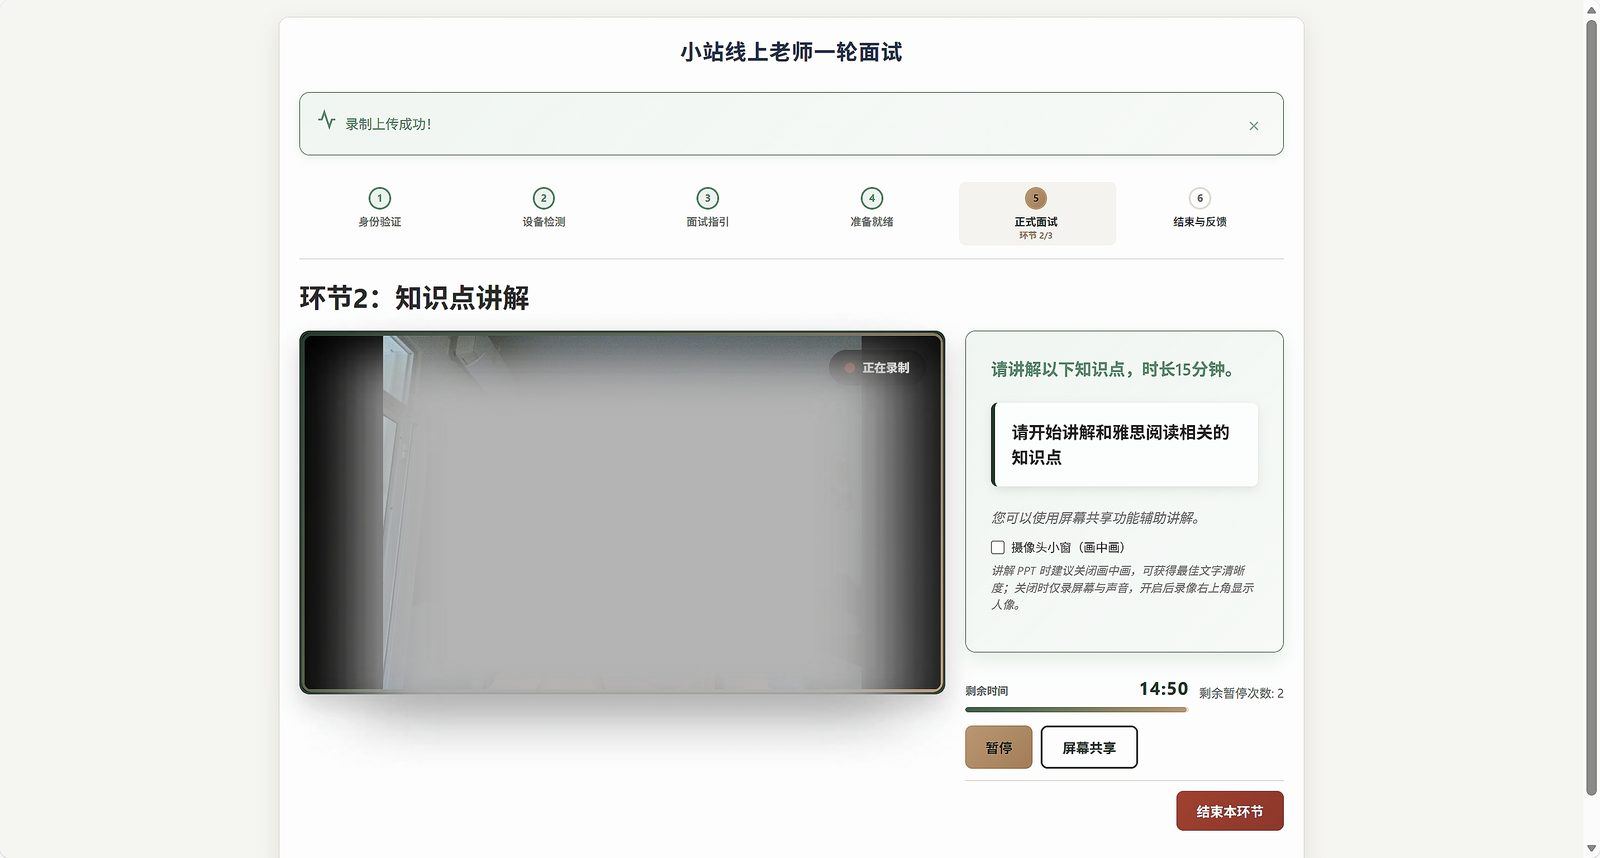
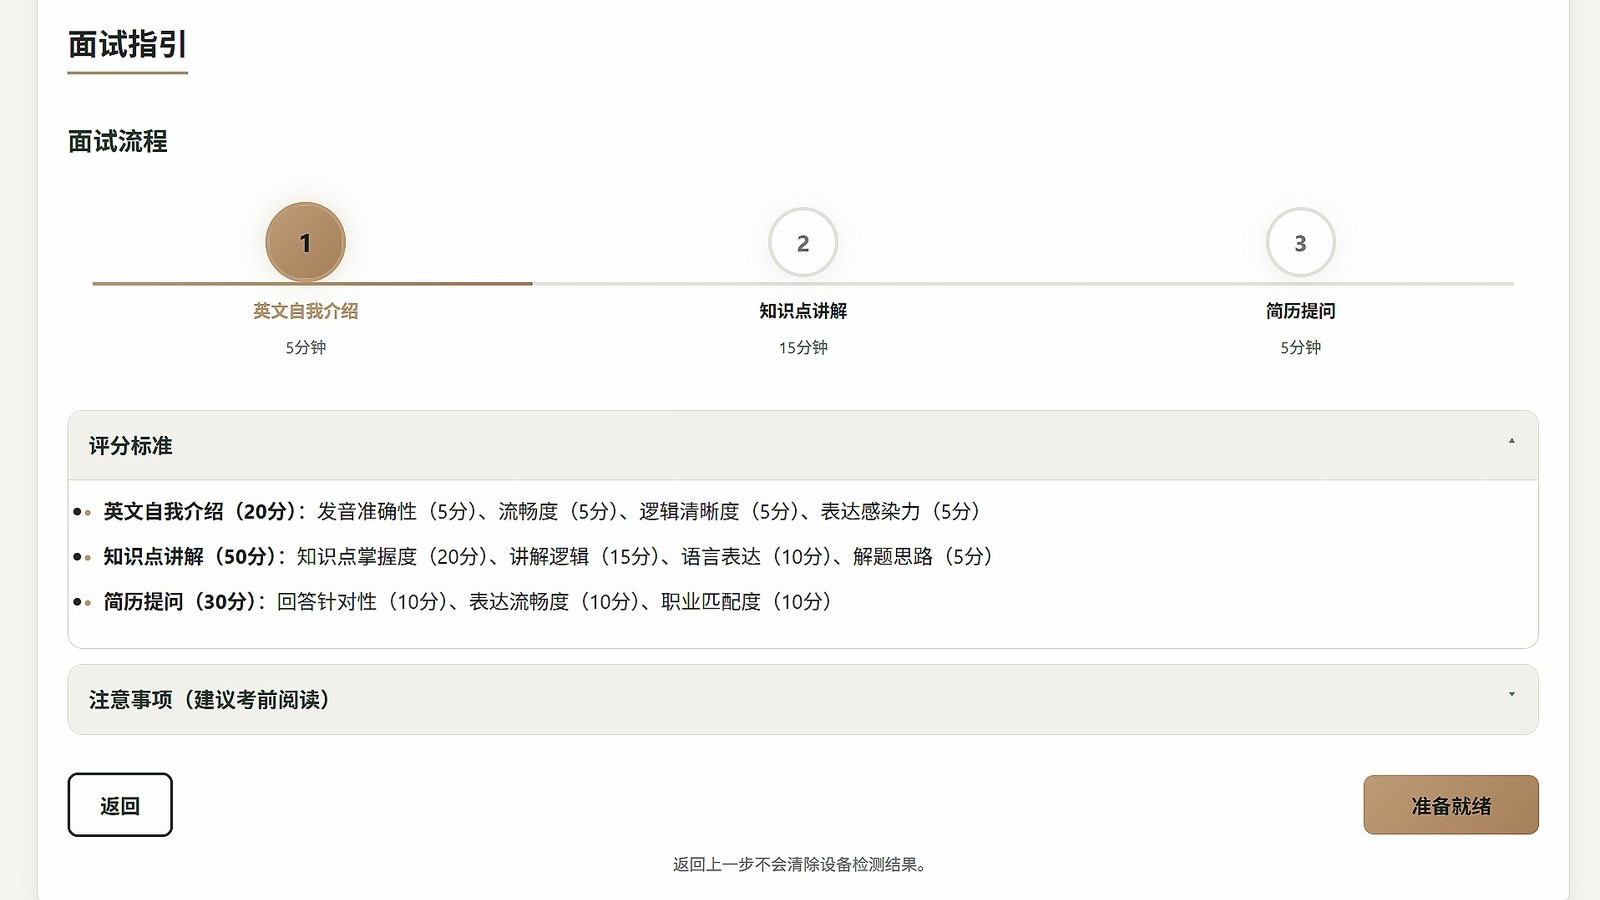
Enlarge hero type, move resume download into Contact, and tighten mobile header.

diff --git a/src/components/Contact.test.ts b/src/components/Contact.test.ts
@@ -6,11 +6,12 @@ import { fileURLToPath } from 'node:url';
 
 const here = dirname(fileURLToPath(import.meta.url));
 
-test('Contact leads with invite copy, then likeness, mail, and WeChat — no resume pill', async () => {
+test('Contact puts a resume button and mail text link under the invite, then likeness and WeChat', async () => {
 	const source = await readFile(join(here, 'Contact.astro'), 'utf8');
 
 	assert.match(source, /from\s+['"]\.\.\/data\/site['"]/);
-	assert.match(source, /from\s+['"]\.\.\/data\/home['"]/);
+	assert.match(source, /from\s+['"]\.\.\/data\/case['"]/);
+	assert.doesNotMatch(source, /from\s+['"]\.\.\/data\/home['"]/);
 	assert.match(source, /WindowBar/);
 	assert.match(source, /mailtoHref/);
 	assert.match(source, /id=["']contact["']/);
@@ -25,7 +26,8 @@ test('Contact leads with invite copy, then likeness, mail, and WeChat — no res
 	assert.match(source, /decoding=["']async["']/);
 	assert.match(source, /border-radius:\s*50%/);
 	assert.doesNotMatch(source, /window--portrait/);
-	assert.match(source, /homeCopy\.contactMailLabel/);
+	assert.match(source, /caseCopy\.mailLabel/);
+	assert.doesNotMatch(source, /homeCopy\.contactMailLabel/);
 	assert.match(source, /site\.email/);
 	assert.match(source, /withBase\(site\.wechatQrSrc\)/);
 	assert.match(source, /site\.wechatQrSrc/);
@@ -37,14 +39,22 @@ test('Contact leads with invite copy, then likeness, mail, and WeChat — no res
 	assert.doesNotMatch(source, /<h2/);
 	assert.match(source, /text-align:\s*left/);
 	assert.match(source, /var\(--color-accent\)/);
-	assert.doesNotMatch(source, /class=["']btn["']/);
-	assert.doesNotMatch(source, /site\.resumeHref/);
-	assert.doesNotMatch(source, /site\.resumeDownloadName/);
+	assert.match(source, /class=["']btn["']/);
+	assert.match(source, /下载简历 PDF/);
+	assert.match(source, /href=\{withBase\(site\.resumeHref\)\}/);
+	assert.match(source, /download=\{site\.resumeDownloadName\}/);
 	assert.doesNotMatch(source, /site\.resumeLabel/);
 	assert.doesNotMatch(source, /hello@example\.com/);
 	assert.doesNotMatch(source, /tel:|github\.com/i);
 
-	const order = ['site.contactInvite', 'site.avatarSrc', 'site.email', 'site.wechatQrSrc', 'site.wechatHint'];
+	const order = [
+		'site.contactInvite',
+		'site.resumeHref',
+		'site.email',
+		'site.avatarSrc',
+		'site.wechatQrSrc',
+		'site.wechatHint',
+	];
 	let cursor = -1;
 	for (const token of order) {
 		const at = source.indexOf(token, cursor + 1);

diff --git a/src/components/About.test.ts b/src/components/About.test.ts
@@ -27,7 +27,16 @@ test('About renders path story, judgments timeline, and now from site/home data'
 	assert.match(source, /<ol\b/);
 	assert.match(source, /judgments__what/);
 	assert.match(source, /judgments__cost/);
-	assert.match(source, /padStart\s*\(\s*2\s*,\s*['"]0['"]\s*\)/);
+	assert.doesNotMatch(source, /padStart\s*\(\s*2\s*,\s*['"]0['"]\s*\)/);
+	assert.match(source, /判断一/);
+	assert.match(source, /判断二/);
+	assert.match(source, /判断三/);
+	assert.match(source, /判断四/);
+	assert.match(source, /\.judgments__list li:before\s*\{[^}]*width:\s*8px/s);
+	assert.match(source, /\.judgments__list li:before\s*\{[^}]*height:\s*8px/s);
+	assert.match(source, /\.judgments__list li:before\s*\{[^}]*background:\s*var\(--color-amber-ink\)/s);
+	assert.match(source, /\.judgments__list:before\s*\{[^}]*width:\s*1px/s);
+	assert.match(source, /\.judgments__list:before\s*\{[^}]*background:\s*var\(--color-rule\)/s);
 	assert.match(source, /代价：/);
 	assert.match(source, /class=["']now["']/);
 	assert.match(source, /<dl\b/);
@@ -43,10 +52,10 @@ test('About renders path story, judgments timeline, and now from site/home data'
 
 	assert.doesNotMatch(source, /brandManifesto|about__manifesto/);
 
-	assert.match(source, /site\.resumeHref/);
-	assert.match(source, /site\.resumeDownloadName/);
-	assert.match(source, /site\.resumeLabel/);
-	assert.match(source, /download=\{site\.resumeDownloadName\}/);
+	assert.doesNotMatch(source, /site\.resumeHref/);
+	assert.doesNotMatch(source, /site\.resumeDownloadName/);
+	assert.doesNotMatch(source, /site\.resumeLabel/);
+	assert.doesNotMatch(source, /about__resume/);
 
 	assert.doesNotMatch(source, /id=["']about["']/);
 	assert.doesNotMatch(source, /aboutSkillsPrimary|aboutSkillsSecondary|acpCert/);
@@ -60,8 +69,6 @@ test('About renders path story, judgments timeline, and now from site/home data'
 	assert.match(source, /text-align:\s*left/);
 	assert.match(source, /2\.4rem/);
 	assert.match(source, /var\(--color-amber-ink\)/);
-	assert.match(source, /\.about__resume a\s*\{[^}]*color:\s*var\(--color-muted\)/s);
-	assert.match(source, /\.about__resume a\s*\{[^}]*font-size:\s*var\(--font-size-muted\)/s);
 
 	assert.doesNotMatch(source, /hello@example\.com/);
 	assert.doesNotMatch(source, /tel:|github\.com/i);

diff --git a/src/components/Hero.test.ts b/src/components/Hero.test.ts
@@ -73,6 +73,8 @@ test('Hero is a short identity plus a diagonal index of both works', async () =>
 
 	assert.doesNotMatch(source, /<h1>\{site\.headline\}<\/h1>/);
 	assert.match(source, /\.hero h1\s*\{/);
+	assert.match(source, /\.hero h1\s*\{[^}]*font-size:\s*var\(--text-hero\)/s);
+	assert.match(source, /\.hero h1\s*\{[^}]*line-height:\s*1\.2/s);
 	assert.match(source, /\.hero h1\s*\{[^}]*text-align:\s*left/s);
 	assert.match(source, /letter-spacing:\s*0\.28em/);
 	assert.match(source, /text-wrap:\s*balance/);
@@ -100,6 +102,33 @@ test('Hero is a short identity plus a diagonal index of both works', async () =>
 	assert.doesNotMatch(source, /hello@example\.com/);
 	assert.doesNotMatch(source, /open to any AI role/i);
 	assert.doesNotMatch(source, /tel:|github\.com/i);
+});
+
+test('Hero work titles link to the same case and pick up window hover', async () => {
+	const source = await readFile(join(here, 'Hero.astro'), 'utf8');
+
+	assert.match(
+		source,
+		/<a class=["']hero__work-title["'] href=\{workCaseHref\(work\.slug\)\}>\{work\.title\} →<\/a>/,
+	);
+	assert.match(
+		source,
+		/\.hero__pair:has\(\.window:hover\) \.hero__work-title,\s*\n\s*\.hero__pair:has\(\.window:focus-visible\) \.hero__work-title\s*\{[^}]*color:\s*var\(--color-accent\)/s,
+	);
+	assert.doesNotMatch(source, /\.hero__work-title[^{]*\{[^}]*animation:/s);
+	assert.doesNotMatch(source, /@keyframes\s+hero-title/);
+});
+
+test('wide Hero pulls the second window screen at least a quarter into a 900px viewport', async () => {
+	const source = await readFile(join(here, 'Hero.astro'), 'utf8');
+	const wide = source.match(/@media\s*\(\s*min-width:\s*1101px\s*\)\s*\{([\s\S]*?)\n\t\}/);
+	assert.ok(wide, 'expected a wide-screen Hero block');
+	const block = wide[1];
+
+	assert.match(block, /\.hero\s*\{[^}]*padding-top:\s*4rem/s);
+	assert.match(block, /\.hero__sub\s*\{[^}]*margin-bottom:\s*1\.25rem/s);
+	assert.match(block, /\.hero \.window__screen\s*\{[^}]*max-height:\s*16rem/s);
+	assert.doesNotMatch(block, /aspect-ratio:\s*16\s*\/\s*9/);
 });
 
 test('Hero windows enter once with a short stagger, then rest', async () => {

diff --git a/src/components/CaseHero.test.ts b/src/components/CaseHero.test.ts
@@ -6,7 +6,7 @@ import { fileURLToPath } from 'node:url';
 
 const here = dirname(fileURLToPath(import.meta.url));
 
-test('CaseHero is visible h1 → media → caption facts → product CTA → optional #demo → gallery windows', async () => {
+test('CaseHero is visible h1 → tagline → media → caption facts → product CTA → optional #demo → gallery windows', async () => {
 	const source = await readFile(join(here, 'CaseHero.astro'), 'utf8');
 
 	assert.match(source, /from\s+['"]\.\.\/data\/case['"]/);
@@ -14,7 +14,11 @@ test('CaseHero is visible h1 → media → caption facts → product CTA → opt
 	assert.match(source, /showCaseDemo/);
 	assert.match(source, /resultFactsFor/);
 	assert.match(source, /<h1>\{work\.title\}<\/h1>/);
-	assert.match(source, /\.case-hero h1\s*\{[^}]*font-size:\s*1\.35rem/s);
+	assert.match(source, /<p class="case-hero__tagline">\{work\.tagline\}<\/p>/);
+	assert.match(source, /\.case-hero__tagline\s*\{[^}]*color:\s*var\(--color-muted\)/s);
+	assert.doesNotMatch(source, /<h[1-6][^>]*>\{work\.tagline\}/);
+	assert.match(source, /\.case-hero h1\s*\{[^}]*font-size:\s*var\(--text-section\)/s);
+	assert.match(source, /\.case-hero h1\s*\{[^}]*line-height:\s*1\.25/s);
 	assert.match(source, /\.case-hero h1\s*\{[^}]*font-weight:\s*500/s);
 	assert.doesNotMatch(source, /\.case-hero h1\s*\{[^}]*font-family:/s);
 	assert.match(source, /withBase\(work\.cover\)/);
@@ -54,6 +58,8 @@ test('CaseHero is visible h1 → media → caption facts → product CTA → opt
 	const template = source.slice(source.lastIndexOf('---'));
 	const order = [
 		'<h1>{work.title}</h1>',
+		'work.tagline',
+		'case-hero__media',
 		'work.cover',
 		'case-hero__facts',
 		'product.href',

diff --git a/src/components/Header.test.ts b/src/components/Header.test.ts
@@ -42,3 +42,18 @@ test('wide viewports inset the header with the shared spine page pad', async () 
 		/@media\s*\(\s*min-width:\s*1101px\s*\)\s*\{[^}]*\.site-header\s*\{[^}]*padding-inline:\s*var\(--page-pad-wide\)/s,
 	);
 });
+
+test('narrow header shrinks nav type and gaps so four items stay on one line', async () => {
+	const source = await readFile(join(here, 'Header.astro'), 'utf8');
+	const narrow = source.match(/@media\s*\(\s*max-width:\s*640px\s*\)\s*\{([\s\S]*?)\n\t\}/);
+	assert.ok(narrow, 'expected a 640px header block');
+	const block = narrow[1];
+
+	assert.match(block, /\.site-header\s*\{[^}]*padding-block:\s*0\.4rem/s);
+	assert.match(block, /\.site-header\s*\{[^}]*gap:\s*0\.35rem\s+0\.5rem/s);
+	assert.match(block, /\.site-header__nav\s*\{[^}]*flex-wrap:\s*nowrap/s);
+	assert.match(block, /\.site-header__nav\s*\{[^}]*gap:\s*0\.4rem\s+0\.75rem/s);
+	assert.match(block, /\.site-header__nav a\s*\{[^}]*font-size:\s*0\.85rem/s);
+	assert.doesNotMatch(source, /display:\s*none/);
+	assert.doesNotMatch(source, /联系/);
+});

diff --git a/src/components/SideAtmosphere.test.ts b/src/components/SideAtmosphere.test.ts
@@ -69,3 +69,18 @@ test('rails sit outside the content shell using shared page tokens', async () =>
 	);
 	assert.doesNotMatch(source, /38\.5rem/);
 });
+
+test('left rail folios jump to home, work, and about', async () => {
+	const source = await readFile(join(here, 'SideAtmosphere.astro'), 'utf8');
+
+	assert.match(
+		source,
+		/<a class=["']side-atmosphere__folio["'] href=\{`#\$\{id\}`\}>\{SIDE_CHAPTER_FOLIOS\[id\]\}<\/a>/,
+	);
+	assert.equal(source.match(/<a class=["']side-atmosphere__folio["']/g)?.length, 1);
+	assert.match(source, /\.side-atmosphere__folio\s*\{[^}]*pointer-events:\s*auto/s);
+	assert.match(source, /\.side-atmosphere__folio:focus-visible\s*\{/);
+	assert.match(source, /aria-hidden=["']true["']/);
+	assert.match(source, /pointer-events:\s*none/);
+	assert.match(source, /\.side-atmosphere__rail[^{]*\{[^}]*display:\s*none/s);
+});

diff --git a/src/components/CaseBar.test.ts b/src/components/CaseBar.test.ts
@@ -29,4 +29,10 @@ test('CaseBar links the other case, mail, and home WeChat — no resume or statu
 	assert.doesNotMatch(source, /hello@example\.com/);
 	assert.doesNotMatch(source, /DEMO_ACCOUNT|DEMO_PASSWORD/);
 	assert.doesNotMatch(source, /tel:|github\.com/i);
+	assert.match(source, /<a class=["']btn["'] href=\{workCaseHref\(other\.slug\)\}>/);
+	assert.equal(source.match(/class=["']btn["']/g)?.length, 1);
+	assert.match(source, /<a href=\{mailtoHref\(site\.email\)\}>\{caseCopy\.mailLabel\}<\/a>/);
+	assert.match(source, /<a href=\{withBase\(caseCopy\.wechatHref\)\}>\{caseCopy\.wechatSeeHome\}<\/a>/);
+	assert.match(source, /\.case-bar a:not\(\.btn\)\s*\{[^}]*color:\s*var\(--color-muted\)/s);
+	assert.doesNotMatch(source, /color:\s*var\(--color-accent\)/);
 });

diff --git a/src/styles/global.css b/src/styles/global.css
@@ -17,8 +17,9 @@
 	--font-serif: "Noto Serif SC", "Source Han Serif SC", "Songti SC", serif;
 	--font-mono: "Cascadia Code", "Cascadia Mono", "Sarasa Mono SC", "SF Mono", Consolas, ui-monospace, monospace;
 	--font-size-muted: 0.875rem;
+	--text-hero: clamp(2.4rem, 4vw, 3.2rem);
 	--text-thesis: 1.8rem;
-	--text-section: 1.8rem;
+	--text-section: 2.1rem;
 	--lede-max: 36rem;
 	--window-max: 52rem;
 	--page-max: 72rem;
@@ -283,6 +284,16 @@ code {
 	height: 100%;
 	object-fit: cover;
 	transform: translateZ(0);
+}
+
+.window__screen--mat {
+	padding: 10px;
+	background: var(--color-bg);
+}
+
+.window__screen--mat img,
+.window__screen--mat video {
+	border: 1px solid var(--color-border);
 }
 
 .window--notes {

diff --git a/src/styles/global.test.ts b/src/styles/global.test.ts
@@ -21,8 +21,9 @@ test('global.css defines getdesign-preview paper tokens and shared utilities', a
 	assert.match(css, /--chapter-rule-width:\s*clamp\(12rem,\s*42vw,\s*15\.5rem\)/);
 	assert.match(css, /--color-border:\s*rgba\(27,\s*26,\s*23,\s*\.11\)/);
 	assert.match(css, /--color-window-bar:\s*#e6e2d9/i);
+	assert.match(css, /--text-hero:\s*clamp\(2\.4rem,\s*4vw,\s*3\.2rem\)/);
 	assert.match(css, /--text-thesis:\s*1\.8rem/);
-	assert.match(css, /--text-section:\s*1\.8rem/);
+	assert.match(css, /--text-section:\s*2\.1rem/);
 	assert.match(css, /--radius:\s*18px/);
 	assert.match(css, /--shadow:\s*0\s+24px\s+60px/);
 	assert.match(css, /--window-max:\s*52rem/);

diff --git a/src/lib/work-image.test.ts b/src/lib/work-image.test.ts
@@ -4,7 +4,7 @@ import { workImageSize } from './work-image.ts';
 
 test('workImageSize returns intrinsic pixels for known screenshots', () => {
 	assert.deepEqual(workImageSize('/work/speaking/cover.jpg'), { width: 1600, height: 870 });
-	assert.deepEqual(workImageSize('/work/interview/cover.jpg'), { width: 1600, height: 858 });
+	assert.deepEqual(workImageSize('/work/interview/cover.jpg'), { width: 1600, height: 900 });
 	assert.deepEqual(workImageSize('/work/interview/gallery-1.jpg'), { width: 1600, height: 1223 });
 	assert.deepEqual(workImageSize('/work/unknown.jpg'), { width: 1600, height: 900 });
 });

diff --git a/src/lib/work-image.ts b/src/lib/work-image.ts
@@ -3,7 +3,7 @@ const sizes: Record<string, { width: number; height: number }> = {
 	'/work/speaking/cover.jpg': { width: 1600, height: 870 },
 	'/work/speaking/gallery-2.jpg': { width: 1600, height: 868 },
 	'/work/speaking/gallery-3.jpg': { width: 1600, height: 869 },
-	'/work/interview/cover.jpg': { width: 1600, height: 858 },
+	'/work/interview/cover.jpg': { width: 1600, height: 900 },
 	'/work/interview/gallery-1.jpg': { width: 1600, height: 1223 },
 	'/work/interview/gallery-2.jpg': { width: 1600, height: 858 },
 	'/work/interview/gallery-3.jpg': { width: 1600, height: 858 },

diff --git a/DESIGN.md b/DESIGN.md
@@ -19,9 +19,15 @@ colors:
   on-accent: "#f4f3ef"
 
 typography:
+  hero:
+    fontFamily: "'Noto Serif SC', 'Source Han Serif SC', 'Songti SC', serif"
+    fontSize: clamp(2.4rem, 4vw, 3.2rem)
+    fontWeight: 500
+    lineHeight: 1.2
+    letterSpacing: 0.02em
   display:
     fontFamily: "'Noto Serif SC', 'Source Han Serif SC', 'Songti SC', serif"
-    fontSize: 1.8rem
+    fontSize: 2.1rem
     fontWeight: 500
     lineHeight: 1.25
     letterSpacing: 0.02em
@@ -67,13 +73,13 @@ Three stacked chapters on one **left** vertical axis (author stance, not catalog
 
 1. **Home** — path line + identity claim + proof; two staggered windows as an index of both works (no CTA, no result numbers). Explore keeps the full catalog.
 2. **Explore** — work thesis strip (left border in amber-ink); each work is title + judgment tagline + windowed cover, left-aligned.
-3. **About** — path story, decision timeline, and “现在”; contact invite sits below in the same left column. Resume is only a quiet text link inside About.
+3. **About** — path story, decision timeline, and “现在”; contact invite sits below in the same left column. Contact offers a solid resume download button and a mail text link.
 
 **Left axis applies to:** Hero, chapter titles / thesis, work cards, About, Contact.
 
 **Stay centered:** ChapterRule divider and Footer only. Do not leave `margin: auto` or `justify-items: center` centering on left-axis blocks.
 
-Top nav: wordmark left, `首页 / 作品 / 关于` on the right; no resume CTA in the header.
+Top nav: wordmark left, `首页 / 作品 / 关于 / 联系` on the right; no resume CTA in the header.
 
 Narrow viewports (≤1100px): hide the side rails; show a top 2px `--scroll-progress` line in amber-ink. Prefer `prefers-reduced-motion` static behavior.
 
@@ -95,7 +101,7 @@ No purple gradients, no apricot CTA chips, no dark navy résumé chrome.
 
 ## Type
 
-Chapter / section titles and thesis use Noto Serif SC (~1.8rem / 500, `letter-spacing: 0.02em`) — one serif face for headings, no mixed display stacks. Body and proof stay humanist system sans. Lede ~16px, max-width 36rem, left-aligned on the content axis.
+Hero claim uses Noto Serif SC at `clamp(2.4rem, 4vw, 3.2rem)` / 500, line-height 1.2. Chapter / section titles use the same face at 2.1rem / 500, line-height 1.25. Thesis stays 1.8rem so it sits under the section title. `letter-spacing: 0.02em` throughout — one serif face for headings, no mixed display stacks. Body and proof stay humanist system sans. Lede ~16px, max-width 36rem, left-aligned on the content axis.
 
 ## Window
 
